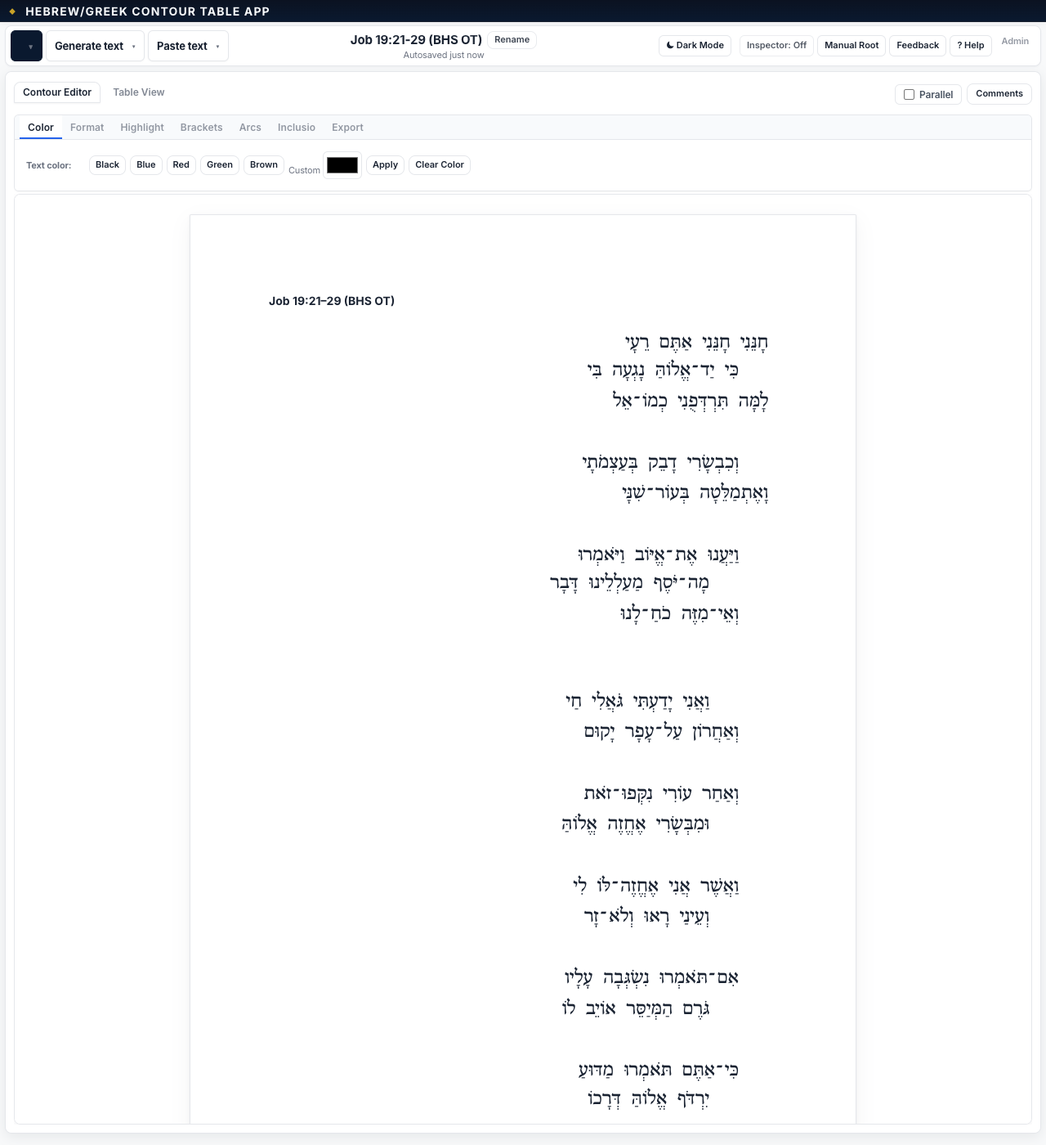
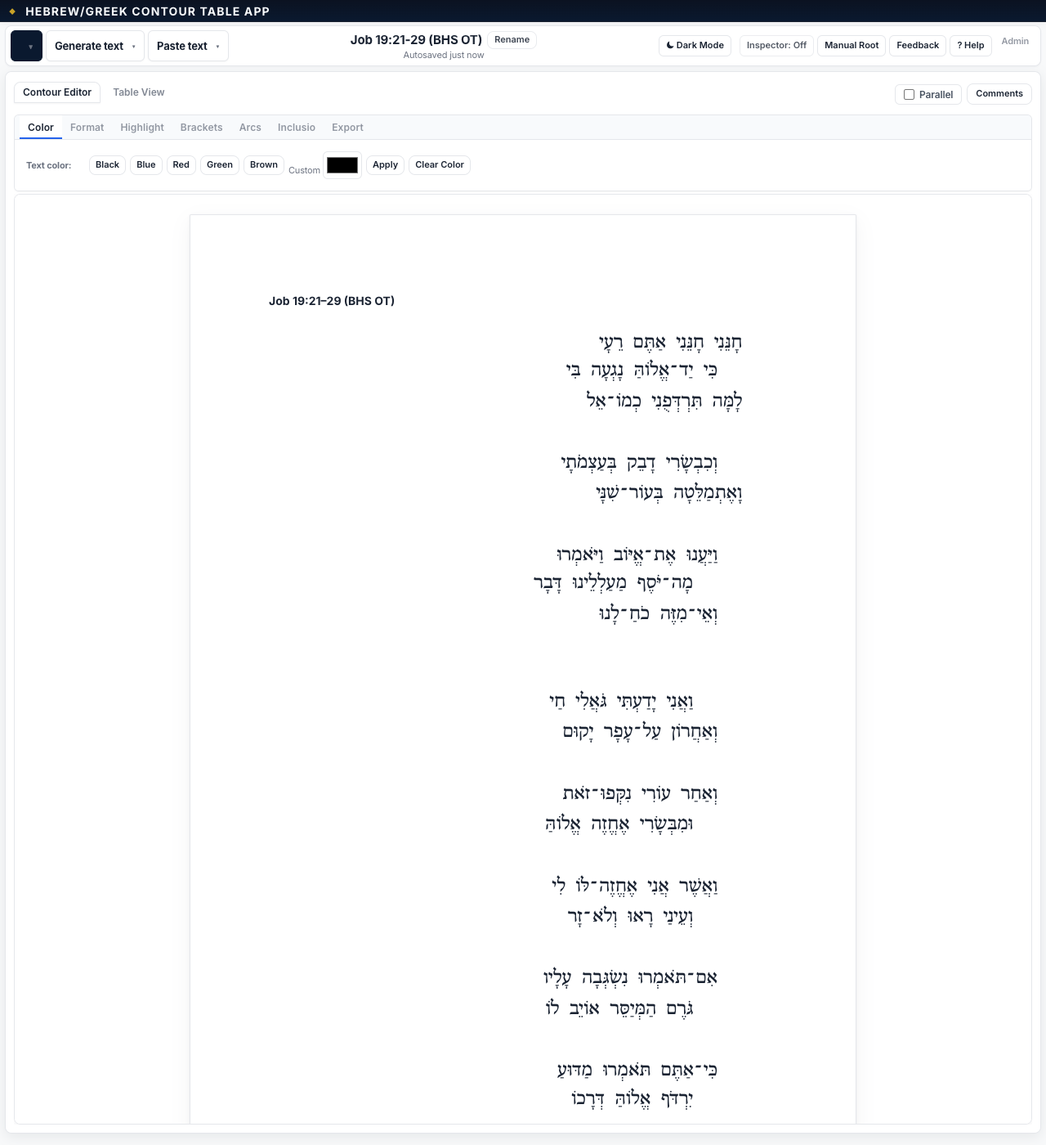
Calibrate contour presentation against Word document geometry.
Fix passage title bidi with an isolated title bar, shift the Hebrew anchor left, and reduce display indent steps to 30px without changing stored levels.

diff --git a/js/app/core.js b/js/app/core.js
@@ -22,7 +22,7 @@ function locFromWordElWithPane(el){if(!el)return null;const loc={v:+el.dataset.v
 function cloneLocWithPane(l){if(!l)return null;const o={v:+l.v,c:+l.c,w:+l.w};if(l.pane!=null)o.pane=+l.pane;return o;}
 function verseRefKey(ref,fallbackIdx){const s=String(ref||'').trim();let m=s.match(/(\d+)\s*:\s*(\d+)/);if(m)return+m[1]*1000+(+m[2]);m=s.match(/(\d+)\s*$/);if(m)return+m[1];return fallbackIdx!=null?fallbackIdx:0;}function defaultVersePairs(){const left=stateBundle.panes[0].verses||[];const right=stateBundle.panes[1].verses||[];const n=Math.max(left.length,right.length,0);const pairs=[];for(let i=0;i<n;i++)pairs.push({leftVi:i<left.length?i:null,rightVi:i<right.length?i:null});return pairs;}function sanitizeVersePairs(pairs){const leftN=(stateBundle.panes[0].verses||[]).length;const rightN=(stateBundle.panes[1].verses||[]).length;if(!Array.isArray(pairs))return defaultVersePairs();return pairs.map(p=>({leftVi:p.leftVi!=null&&p.leftVi>=0&&p.leftVi<leftN?p.leftVi:null,rightVi:p.rightVi!=null&&p.rightVi>=0&&p.rightVi<rightN?p.rightVi:null}));}function materializeVersePairs(){if(!stateBundle.verseAlignPairs)stateBundle.verseAlignPairs=defaultVersePairs();else stateBundle.verseAlignPairs=sanitizeVersePairs(stateBundle.verseAlignPairs);return stateBundle.verseAlignPairs;}function computeVersePairs(){if(!stateBundle.verseAlignPairs)return defaultVersePairs();return sanitizeVersePairs(stateBundle.verseAlignPairs);}function autoAlignVersePairsByRef(){markUndo();ensureStateBundle();const left=stateBundle.panes[0].verses||[];const right=stateBundle.panes[1].verses||[];let li=0,ri=0;const pairs=[];while(li<left.length||ri<right.length){const lk=li<left.length?verseRefKey(left[li].ref,li):Infinity;const rk=ri<right.length?verseRefKey(right[ri].ref,ri):Infinity;if(li>=left.length){pairs.push({leftVi:null,rightVi:ri++});continue;}if(ri>=right.length){pairs.push({leftVi:li++,rightVi:null});continue;}if(lk===rk){pairs.push({leftVi:li++,rightVi:ri++});}else if(lk<rk){pairs.push({leftVi:li++,rightVi:null});}else{pairs.push({leftVi:null,rightVi:ri++});}}stateBundle.verseAlignPairs=pairs;versePairPick=null;if(autosaveReady)autoSaveProject();}function resetVersePairsToIndex(){markUndo();stateBundle.verseAlignPairs=null;versePairPick=null;if(autosaveReady)autoSaveProject();}function findVersePairRow(pane,vi){const pairs=materializeVersePairs();const key=pane===0?'leftVi':'rightVi';for(let i=0;i<pairs.length;i++)if(pairs[i][key]===vi)return i;return-1;}function pairVersesOnRow(paneA,viA,paneB,viB){const pairs=materializeVersePairs();const rowA=findVersePairRow(paneA,viA);const rowB=findVersePairRow(paneB,viB);if(rowA<0||rowB<0)return'missing';if(rowA===rowB)return'same';markUndo();const kA=paneA===0?'leftVi':'rightVi';const kB=paneB===0?'leftVi':'rightVi';pairs[rowA][kA]=viA;pairs[rowA][kB]=viB;if(pairs[rowB][kA]===viA)pairs[rowB][kA]=null;if(pairs[rowB][kB]===viB)pairs[rowB][kB]=null;if(autosaveReady)autoSaveProject();return'paired';}function skipVerseToNextRow(row,pane){markUndo();const pairs=materializeVersePairs();if(row<0||row>=pairs.length)return;const key=pane===0?'leftVi':'rightVi';const vi=pairs[row][key];if(vi==null)return;pairs[row][key]=null;pairs.splice(row+1,0,{leftVi:pane===0?vi:null,rightVi:pane===1?vi:null});if(autosaveReady)autoSaveProject();}function clearVerseAlignState(){stateBundle.verseAlignPairs=null;versePairPick=null;}function remapPaneLocAfterVerseRemoval(l,removedVi){if(!l||l.v==null)return null;if(l.v===removedVi)return null;if(l.v>removedVi)return{v:l.v-1,c:l.c,w:l.w};return{v:l.v,c:l.c,w:l.w};}function remapPaneLocAfterClauseRemoval(l,vi,removedCi){if(!l||l.v==null)return null;if(l.v!==vi)return{v:l.v,c:l.c,w:l.w};if(l.c===removedCi)return null;if(l.c>removedCi)return{v:vi,c:l.c-1,w:l.w};return{v:vi,c:l.c,w:l.w};}function remapPaneStateLocs(st,remapFn){if(Array.isArray(st.comments))st.comments=st.comments.map(cm=>{const start=remapFn(cm.start),end=remapFn(cm.end);if(!start||!end)return null;return Object.assign({},cm,{start,end});}).filter(Boolean);if(Array.isArray(st.arcs))st.arcs=st.arcs.map(arc=>{const start=remapFn(arc.start),end=remapFn(arc.end);if(!start||!end)return null;return Object.assign({},arc,{start,end});}).filter(Boolean);if(Array.isArray(st.inclusios))st.inclusios=st.inclusios.map(inc=>{const start=remapFn(inc.start),end=remapFn(inc.end);if(!start||!end)return null;return Object.assign({},inc,{start,end});}).filter(Boolean);if(st.selected){const sel=remapFn(st.selected);st.selected=sel||null;}if(st.activeCommentId&&(!st.comments||!st.comments.some(c=>c.id===st.activeCommentId)))st.activeCommentId=null;if(st.activeArcId&&(!st.arcs||!st.arcs.some(a=>a.id===st.activeArcId)))st.activeArcId=null;}function adjustVersePairsAfterVerseRemoval(pane,removedVi){const key=pane===0?'leftVi':'rightVi';const pairs=materializeVersePairs();pairs.forEach(p=>{const vi=p[key];if(vi===removedVi)p[key]=null;else if(vi!=null&&vi>removedVi)p[key]=vi-1;});stateBundle.verseAlignPairs=pairs;}function pruneCrossArcsForPane(pane){ensureCrossArcs();stateBundle.crossArcs=stateBundle.crossArcs.filter(arc=>{const sp=arc.start.pane!=null?+arc.start.pane:0;const ep=arc.end.pane!=null?+arc.end.pane:1;if(sp===pane&&!locOKInPane(arc.start,pane))return false;if(ep===pane&&!locOKInPane(arc.end,pane))return false;return true;});}function removeVerseFromPane(pane,vi,skipConfirm){ensureStateBundle();const st=stateBundle.panes[pane];if(!st||!st.verses[vi])return;const ref=st.verses[vi].ref||'this verse';if(!skipConfirm&&!confirm('Remove '+ref+' from '+paneLabel(pane)+'? Annotations on this verse will be removed.'))return;markUndo();const remap=l=>remapPaneLocAfterVerseRemoval(l,vi);remapPaneStateLocs(st,remap);st.verses.splice(vi,1);if(Array.isArray(stateBundle.generatedRefsByPane[pane]))stateBundle.generatedRefsByPane[pane].splice(vi,1);adjustVersePairsAfterVerseRemoval(pane,vi);pruneCrossArcsForPane(pane);if(versePairPick&&versePairPick.pane===pane&&versePairPick.vi===vi)versePairPick=null;else if(versePairPick&&versePairPick.pane===pane&&versePairPick.vi>vi)versePairPick.vi--;if(stateBundle.activePane===pane){state=st;if(typeof applyInclusioBrackets==='function')applyInclusioBrackets(false);}if(autosaveReady)autoSaveProject();updateSaveStatus('Removed '+ref+' from '+paneLabel(pane)+'. Reload the passage to restore it.');render();}function removeClauseFromPane(pane,v,ci){ensureStateBundle();const st=stateBundle.panes[pane];if(!st||!st.verses[v]||!st.verses[v].clauses[ci])return;const verse=st.verses[v];if(verse.clauses.length===1){removeVerseFromPane(pane,v,true);return;}markUndo();const remap=l=>remapPaneLocAfterClauseRemoval(l,v,ci);remapPaneStateLocs(st,remap);verse.clauses.splice(ci,1);pruneCrossArcsForPane(pane);if(stateBundle.activePane===pane){state=st;if(typeof applyInclusioBrackets==='function')applyInclusioBrackets(false);}if(autosaveReady)autoSaveProject();updateSaveStatus('Removed section from '+verse.ref+'.');render();}function removeClauseFromActivePane(){if(!state.selected||!locOK(state.selected))return;removeClauseFromPane(stateBundle.activePane,state.selected.v,state.selected.c);}function countLeadingRightOffset(){const pairs=materializeVersePairs();let n=0;for(let i=0;i<pairs.length;i++){if(pairs[i].leftVi!=null&&pairs[i].rightVi==null)n++;else if(pairs[i].rightVi!=null)break;}return n;}function shiftRightColumnDown(){markUndo();const pairs=materializeVersePairs();if(!pairs.length)return;const rights=pairs.map(p=>p.rightVi);for(let i=0;i<pairs.length;i++)pairs[i].rightVi=null;for(let i=0;i<rights.length;i++){if(rights[i]==null)continue;const target=i+1;while(target>=pairs.length)pairs.push({leftVi:null,rightVi:null});pairs[target].rightVi=rights[i];}if(autosaveReady)autoSaveProject();}function shiftRightColumnUp(){markUndo();if(countLeadingRightOffset()<=0)return;const pairs=materializeVersePairs();const rights=[];for(const p of pairs)if(p.rightVi!=null)rights.push(p.rightVi);for(const p of pairs)p.rightVi=null;for(let i=0;i<rights.length;i++){if(i>=pairs.length)pairs.push({leftVi:null,rightVi:null});pairs[i].rightVi=rights[i];}if(autosaveReady)autoSaveProject();}function nudgeVerseUp(row,pane){markUndo();if(row<=0)return;const pairs=materializeVersePairs();const key=pane===0?'leftVi':'rightVi';const vi=pairs[row][key];if(vi==null)return;const prev=pairs[row-1][key];pairs[row-1][key]=vi;pairs[row][key]=prev;if(autosaveReady)autoSaveProject();}function updateParallelAlignStatus(){const el=document.getElementById('parallelAlignStatus');if(!el)return;if(!stateBundle.parallelEnabled){el.textContent='';return;}if(!isParallelActive()){el.textContent='Parallel passages on — widen the window for side-by-side view.';return;}if(versePairPick){const st=stateBundle.panes[versePairPick.pane];const ref=(st.verses[versePairPick.vi]&&st.verses[versePairPick.vi].ref)||'verse';el.innerHTML='Selected <strong>'+esc(ref)+'</strong> — click the matching verse in the other column. <button type="button" class="linkish-btn" id="cancelVersePickBtn">Cancel</button>';const cancel=document.getElementById('cancelVersePickBtn');if(cancel)cancel.onclick=(e)=>{e.preventDefault();versePairPick=null;render();};return;}const off=countLeadingRightOffset();let msg=off?('Right pane starts '+off+' row'+(off===1?'':'s')+' lower than the left.'):'Right and left panes start on the same row.';msg+=' Toolbar <strong>↑</strong> / <strong>↓</strong> shift the whole right pane up or down (Alt+↑ / Alt+↓). Small <strong>↑</strong> / <strong>↓</strong> beside a verse on the right move that verse only. Click two verse labels to pair them on one row.';if(off>0)msg+=' <button type="button" class="linkish-btn" id="resetVerseAlignLink">Reset</button>';if(state.selected&&locOK(state.selected)&&stateBundle.activePane!=null)msg+=' <button type="button" class="linkish-btn" id="removeClauseSectionBtn">Remove this section</button>';el.innerHTML=msg;const reset=document.getElementById('resetVerseAlignLink');if(reset)reset.onclick=(e)=>{e.preventDefault();resetVersePairsToIndex();render();};const trimBtn=document.getElementById('removeClauseSectionBtn');if(trimBtn)trimBtn.onclick=(e)=>{e.preventDefault();removeClauseFromActivePane();};}
 function paneLanguage(pane){const st=stateBundle.panes[pane];return st&&st.language?st.language:'hebrew';}
-function renderVerseBlock(pane,vi,paneState,layout,activeKey,row){if(vi==null||!paneState.verses[vi])return '<div class="parallel-empty-verse muted small">—</div>';const v=paneState.verses[vi];const picked=versePairPick&&versePairPick.pane===pane&&versePairPick.vi===vi;const ri=row!=null?row:0;const clauseCls=typeof clauseLayoutClassNames==='function'?clauseLayoutClassNames:(c,sel)=>'clause'+(sel?' selected':'');const verseCls=typeof verseBlockClassNames==='function'?verseBlockClassNames:()=>'verse-block';const refBar=typeof parallelVerseRefBarHtml==='function'?parallelVerseRefBarHtml(v,vi,pane,ri,picked):'';let html=`<div class="${verseCls(v)}" data-pane="${pane}" data-v="${vi}">`;html+=refBar;v.clauses.forEach((c,ci)=>{const sel=paneState.selected&&paneState.selected.v===vi&&paneState.selected.c===ci;const marginStyle=layout.indentSide==='left'?`margin-left:${c.indent*36}px`:`margin-right:${c.indent*36}px`;html+=`<div class="${clauseCls(c,sel)}" data-pane="${pane}" data-v="${vi}" data-c="${ci}" dir="${layout.dir}" style="${marginStyle};direction:${layout.dir};text-align:${layout.textAlign};font-family:${layout.fontFamily}">`;html+=typeof renderWordTokensInClause==='function'?renderWordTokensInClause(c.words,{vi,ci,pane,paneState,activeKey,selLoc:paneState.selected,idsForLoc:l=>commentIdsForLocInPane(l,pane),markersForLoc:l=>commentMarkersForLocInPane(l,pane)}):'';html+='</div>';});html+='</div>';return html;}
+function renderVerseBlock(pane,vi,paneState,layout,activeKey,row){if(vi==null||!paneState.verses[vi])return '<div class="parallel-empty-verse muted small">—</div>';const v=paneState.verses[vi];const picked=versePairPick&&versePairPick.pane===pane&&versePairPick.vi===vi;const ri=row!=null?row:0;const clauseCls=typeof clauseLayoutClassNames==='function'?clauseLayoutClassNames:(c,sel)=>'clause'+(sel?' selected':'');const verseCls=typeof verseBlockClassNames==='function'?verseBlockClassNames:()=>'verse-block';const refBar=typeof parallelVerseRefBarHtml==='function'?parallelVerseRefBarHtml(v,vi,pane,ri,picked):'';const indentPx=typeof contourDisplayIndentPx==='function'?contourDisplayIndentPx():36;let html=`<div class="${verseCls(v)}" data-pane="${pane}" data-v="${vi}">`;html+=refBar;v.clauses.forEach((c,ci)=>{const sel=paneState.selected&&paneState.selected.v===vi&&paneState.selected.c===ci;const marginStyle=layout.indentSide==='left'?`margin-left:${c.indent*indentPx}px`:`margin-right:${c.indent*indentPx}px`;html+=`<div class="${clauseCls(c,sel)}" data-pane="${pane}" data-v="${vi}" data-c="${ci}" dir="${layout.dir}" style="${marginStyle};direction:${layout.dir};text-align:${layout.textAlign};font-family:${layout.fontFamily}">`;html+=typeof renderWordTokensInClause==='function'?renderWordTokensInClause(c.words,{vi,ci,pane,paneState,activeKey,selLoc:paneState.selected,idsForLoc:l=>commentIdsForLocInPane(l,pane),markersForLoc:l=>commentMarkersForLocInPane(l,pane)}):'';html+='</div>';});html+='</div>';return html;}
 function locRankInPane(l,pane){const st=stateBundle.panes[pane];if(!st||!locOKInPane(l,pane))return-1;let n=0;for(let vi=0;vi<st.verses.length;vi++){for(let ci=0;ci<st.verses[vi].clauses.length;ci++){if(vi===l.v&&ci===l.c)return n+l.w;n+=st.verses[vi].clauses[ci].words.length;}}return-1;}
 function locInRangeInPane(l,start,end,pane){if(!locOKInPane(l,pane)||!locOKInPane(start,pane)||!locOKInPane(end,pane))return false;const r=locRankInPane(l,pane),a=locRankInPane(start,pane),b=locRankInPane(end,pane);return r>=Math.min(a,b)&&r<=Math.max(a,b);}
 function commentIdsForLocInPane(l,pane){const st=stateBundle.panes[pane];if(!st||!Array.isArray(st.comments))return[];return st.comments.filter(cm=>locOKInPane(cm.start,pane)&&locOKInPane(cm.end,pane)&&locInRangeInPane(l,cm.start,cm.end,pane)).map(cm=>cm.id);}

diff --git a/js/app/layout.js b/js/app/layout.js
@@ -26,12 +26,12 @@ function applyEditorLayoutFix(){
   else bind();
 })();
 
-function render(){applyLanguageLayout();syncStateBundle();if(typeof syncAllPaneInclusioWordMarkers==='function')syncAllPaneInclusioWordMarkers();renderParallelEditors();if(isParallelActive()){renderDualTables();}else{renderEditor();renderTable();}renderLegendEditor();syncLegendBelowEditor();if(typeof renderInclusioUI==='function')renderInclusioUI();else if(typeof renderInclusioManager==='function')renderInclusioManager();if(!isWorkspaceTableView())renderCommentsPanel();setTimeout(updateCommentPopover,0);if(isParallelActive())renderArcManagerParallel();else if(typeof renderArcManager==='function')renderArcManager();if(stateBundle.parallelEnabled)updateParallelAlignStatus();if(typeof updateVisualBreakToolbar==='function')updateVisualBreakToolbar();if(autosaveReady)autoSaveProject();scheduleEditorLayoutFix();}
+function render(){applyLanguageLayout();syncStateBundle();if(typeof syncAllPaneInclusioWordMarkers==='function')syncAllPaneInclusioWordMarkers();renderParallelEditors();if(isParallelActive()){renderDualTables();}else{renderEditor();renderTable();}renderLegendEditor();syncLegendBelowEditor();if(typeof renderInclusioUI==='function')renderInclusioUI();else if(typeof renderInclusioManager==='function')renderInclusioManager();if(!isWorkspaceTableView())renderCommentsPanel();setTimeout(updateCommentPopover,0);if(isParallelActive())renderArcManagerParallel();else if(typeof renderArcManager==='function')renderArcManager();if(stateBundle.parallelEnabled)updateParallelAlignStatus();if(typeof updateVisualBreakToolbar==='function')updateVisualBreakToolbar();if(!isParallelActive()&&typeof finalizeDocumentPagePresentation==='function')finalizeDocumentPagePresentation();if(autosaveReady)autoSaveProject();scheduleEditorLayoutFix();}
 function wordFormatClasses(w,l){let f=w.format||{};let suppressCommentStart=l&&isCommentBoundary(l,'start')&&!w.bracketSource;let suppressCommentEnd=l&&isCommentBoundary(l,'end')&&!w.bracketSource;let incCls=typeof inclusioWordHighlightClass==='function'&&l?inclusioWordHighlightClass(l,w):'';let inclusioQuiet=w.bracketSource==='inclusio'?'inclusio-bracket':'';return `${f.bold?'fmt-bold':''} ${f.italic?'fmt-italic':''} ${f.underline?'fmt-underline':''} ${f.doubleUnderline?'fmt-double-underline':''} ${f.highlight?'fmt-highlight':''} ${(w.bracketStart&&!suppressCommentStart)?'bracket-start':''} ${(w.bracketEnd&&!suppressCommentEnd)?'bracket-end':''} ${inclusioQuiet} ${incCls}`.replace(/\s+/g,' ').trim();}
 function wordInlineStyle(w){let styles=[];if(w.color)styles.push('color:'+esc(w.color));if(w.format&&w.format.highlight)styles.push('background-color:'+esc(w.format.highlight));let bc=w.bracketColor||w.inclusioColor;if(bc)styles.push('--bracket-color:'+esc(bc));return styles.join(';');}
 function renderWordTokensInClause(words,opt){const vi=opt.vi,ci=opt.ci,pane=opt.pane,paneState=opt.paneState||state,activeKey=opt.activeKey||'',forExport=!!(opt&&opt.forExport);const selLoc=opt.selLoc||(paneState&&paneState.selected);const idsFn=opt.idsForLoc||(pane!=null?(l=>commentIdsForLocInPane(l,pane)):(l=>commentIdsForLoc(l)));const markersFn=opt.markersForLoc||(pane!=null?(l=>commentMarkersForLocInPane(l,pane)):(l=>commentMarkersForLoc(l)));let html='';words.forEach((w,wi)=>{if(isMaqafConnector(w)){const hidden=forExport?'':' aria-hidden="true"';html+=`<span class="maqaf-connector"${hidden}>${esc(w.text||MAQAF_CHAR)}</span>`;return;}ensureSelectableWordFields(w);const l=pane!=null?{v:vi,c:ci,w:wi,pane}:{v:vi,c:ci,w:wi};const ids=idsFn(l);const commentClass=ids.length?'comment-anchored':'';const activeCommentClass=(paneState.activeCommentId&&ids.includes(paneState.activeCommentId))?'comment-active':'';const wsel=selLoc&&selLoc.v===vi&&selLoc.c===ci&&selLoc.w===wi;const same=activeKey&&normalizeHebrewWord(w.text)===activeKey&&!wsel;const paneAttr=pane!=null?` data-pane="${pane}"`:'';const specials=w.specials||[];html+=`<span class="word ${wsel?'selected':''} ${same?'sameword':''} ${commentClass} ${activeCommentClass} ${w.deleted?'deleted':''} ${specials.includes('predicate')?'pred':''} ${specials.includes('subject')?'subj':''} ${w.color?'has-text-color':''} ${wordFormatClasses(w,l)}"${paneAttr} data-v="${vi}" data-c="${ci}" data-w="${wi}" style="${wordInlineStyle(w)}">${esc(w.text)}</span>${markersFn(l)}`;if(needsSpaceAfterWord(words,wi))html+=' ';});return html;}
 function renderEditor(){const ed=document.getElementById('editor');const wrap=document.getElementById('editorWrap');if(wrap)wrap.classList.add('contour-document-surface');const layout=getLanguageLayout();const scriptStyle=`direction:${layout.dir};text-align:${layout.textAlign};font-family:${layout.fontFamily}`;ensureComments();function restoreArcSvgLayer(){if(typeof ensureArcSvgLayer==='function')ensureArcSvgLayer();}if(!state.verses.length){ed.classList.remove('contour-document-page');if(typeof syncContourPassageTitle==='function')syncContourPassageTitle();ed.innerHTML='<div class="editor-empty-state" dir="ltr"><p class="editor-empty-title">No text loaded yet</p><p class="muted">Use <strong>Generate text</strong> or <strong>Paste text</strong> in the menu bar above.</p></div>';restoreArcSvgLayer();hideCommentPopover();return;}ed.classList.add('contour-document-page');if(typeof applyDocumentPageEditorTypography==='function')applyDocumentPageEditorTypography(ed,layout);ed.innerHTML=buildContourEditorHtmlFromState();if(typeof syncContourPassageTitle==='function')syncContourPassageTitle();restoreArcSvgLayer();document.querySelectorAll('.word').forEach(el=>el.onclick=(ev)=>{let clicked={v:+el.dataset.v,c:+el.dataset.c,w:+el.dataset.w};if(ev.shiftKey&&locOK(state.selected)){applyBracketRange(state.selected,clicked);return;}state.selected=clicked;let ids=commentIdsForLoc(clicked);if(ids.length)state.activeCommentId=ids[0];render();});document.querySelectorAll('.comment-marker').forEach(el=>el.onclick=(ev)=>{ev.stopPropagation();activateComment(el.dataset.commentId);});}
-function buildContourEditorHtmlFromState(forExport){const layout=getLanguageLayout();const scriptStyle=`direction:${layout.dir};text-align:${layout.textAlign};font-family:${layout.fontFamily}`;ensureComments();if(!state.verses.length)return '';let html='';let activeKey=selectedWordKey();const exportMode=!!forExport;const clauseCls=typeof clauseLayoutClassNames==='function'?clauseLayoutClassNames:(c,sel)=>'clause'+(sel?' selected':'');const verseCls=typeof verseBlockClassNames==='function'?verseBlockClassNames:()=>'verse-block';const refHtml=typeof contourVerseRefHtml==='function'?contourVerseRefHtml:(v,vi)=>`<div class="muted verse-ref" dir="ltr">${esc(v.ref)}</div>`;state.verses.forEach((v,vi)=>{html+=`<div class="${verseCls(v)}" data-v="${vi}">`;html+=refHtml(v,vi);v.clauses.forEach((c,ci)=>{let sel=state.selected&&state.selected.v==vi&&state.selected.c==ci;let marginStyle=layout.indentSide==='left'?`margin-left:${c.indent*36}px`:`margin-right:${c.indent*36}px`;html+=`<div class="${clauseCls(c,sel)}" data-v="${vi}" data-c="${ci}" dir="${layout.dir}" style="${marginStyle};${scriptStyle}">`;html+=renderWordTokensInClause(c.words,{vi,ci,paneState:state,activeKey,selLoc:state.selected,forExport:exportMode});html+='</div>';});html+='</div>';});return html;}
+function buildContourEditorHtmlFromState(forExport){const layout=getLanguageLayout();const scriptStyle=`direction:${layout.dir};text-align:${layout.textAlign};font-family:${layout.fontFamily}`;ensureComments();if(!state.verses.length)return '';let html='';let activeKey=selectedWordKey();const exportMode=!!forExport;const clauseCls=typeof clauseLayoutClassNames==='function'?clauseLayoutClassNames:(c,sel)=>'clause'+(sel?' selected':'');const verseCls=typeof verseBlockClassNames==='function'?verseBlockClassNames:()=>'verse-block';const refHtml=typeof contourVerseRefHtml==='function'?contourVerseRefHtml:(v,vi)=>`<div class="muted verse-ref" dir="ltr">${esc(v.ref)}</div>`;const indentPx=typeof contourDisplayIndentPx==='function'?contourDisplayIndentPx():36;state.verses.forEach((v,vi)=>{html+=`<div class="${verseCls(v)}" data-v="${vi}">`;html+=refHtml(v,vi);v.clauses.forEach((c,ci)=>{let sel=state.selected&&state.selected.v==vi&&state.selected.c==ci;let marginStyle=layout.indentSide==='left'?`margin-left:${c.indent*indentPx}px`:`margin-right:${c.indent*indentPx}px`;html+=`<div class="${clauseCls(c,sel)}" data-v="${vi}" data-c="${ci}" dir="${layout.dir}" style="${marginStyle};${scriptStyle}">`;html+=renderWordTokensInClause(c.words,{vi,ci,paneState:state,activeKey,selLoc:state.selected,forExport:exportMode});html+='</div>';});html+='</div>';});return html;}
 function clauseRows(){let rows=[];state.verses.forEach((v,vi)=>v.clauses.forEach((c,ci)=>{let words=joinWordsForDisplay(c.words.filter(w=>!w.deleted));let notes=c.words.filter(w=>w.note&&!isMaqafConnector(w)).map(w=>'['+w.text+'] — '+w.note).join('; ');let trans=c.words.filter(w=>w.translation&&!isMaqafConnector(w)).map(w=>'['+w.text+'] — '+w.translation).join('; ');rows.push({vi,ci,ref:v.ref,clause:ci+1,hebrew:words,indent:c.indent,notes,translation:trans,ann:c.ann||{}});}));return rows;}
 function renderTable(){let rows=clauseRows();let textHeader=(state.language==='greek'?'Greek Text':'Hebrew Text');let textClass=(state.language==='greek'?'greek':'heb');let ltr=' class="ann-ltr" dir="ltr"';let html='<table id="annTable" dir="ltr"><thead><tr><th class="'+textClass+'">'+textHeader+'</th><th'+ltr+'>Translation</th><th'+ltr+'>Gloss</th><th'+ltr+'>Parsing</th><th'+ltr+'>Notes</th>';state.columns.forEach(col=>html+=`<th class="ann-ltr" dir="ltr">${esc(col)}</th>`);html+='</tr></thead><tbody>';rows.forEach(r=>{html+=`<tr data-v="${r.vi}" data-c="${r.ci}"><td class="${textClass}">${esc(r.hebrew)}</td><td class="ann-ltr" dir="ltr" contenteditable data-col="Translation">${esc(r.ann['Translation']||'')}</td><td class="ann-ltr" dir="ltr">${esc(r.translation)}</td><td class="ann-ltr" dir="ltr" contenteditable data-col="Parsing">${esc(r.ann['Parsing']||'')}</td><td class="ann-ltr" dir="ltr">${esc(r.notes)}</td>`;state.columns.forEach(col=>html+=`<td class="ann-ltr" dir="ltr" contenteditable data-col="${esc(col)}">${esc(r.ann[col]||'')}</td>`);html+='</tr>';});html+='</tbody></table>';const tableWrap=document.getElementById('tableWrap');tableWrap.innerHTML=html;tableWrap.dir='ltr';tableWrap.style.direction='ltr';tableWrap.style.textAlign='left';document.querySelectorAll('#annTable td[contenteditable]').forEach(td=>{applyLtrAnnotationInput(td);td.oninput=()=>{if(!td._undoSnap){markUndo();td._undoSnap=1;}let tr=td.closest('tr'),c=state.verses[+tr.dataset.v].clauses[+tr.dataset.c];c.ann=c.ann||{};c.ann[td.dataset.col]=td.innerText;if(autosaveReady)autoSaveProject();};});}
 function insertBreak(){markUndo();let l=state.selected;if(!locOK(l)||l.w===0)return;let v=l.v,c=l.c,w=l.w;let cl=state.verses[v].clauses[c];let newc={indent:cl.indent,words:cl.words.slice(w),specials:[],ann:{}};cl.words=cl.words.slice(0,w);const isLastClause=c===state.verses[v].clauses.length-1;const hasNextVerse=v+1<state.verses.length;if(isLastClause&&hasNextVerse){state.verses[v+1].clauses.unshift(newc);applyStructureRemap(mapSplitClauseCrossVerse(v,c,w));state.selected={v:v+1,c:0,w:0};}else{state.verses[v].clauses.splice(c+1,0,newc);applyStructureRemap(mapSplitClause(v,c,w));state.selected={v,c:c+1,w:0};}render();}

diff --git a/js/app/layout-breaks.js b/js/app/layout-breaks.js
@@ -50,6 +50,11 @@ function spacingAfterFromBlankLineCount(blankCount) {
 window.spacingAfterFromBlankLineCount = spacingAfterFromBlankLineCount;
 
 const WORD_CONTOUR_INDENT_PX = 36;
+/** Editor/export pixel width per stored indent level (presentation calibration). */
+const CONTOUR_DISPLAY_INDENT_PX = 30;
+window.contourDisplayIndentPx = function contourDisplayIndentPx() {
+  return CONTOUR_DISPLAY_INDENT_PX;
+};
 const WORD_IMPORT_INDENT_STEP_PX = 48;
 const WORD_INDENT_IMPORT_PREF_KEY = 'hc-import-word-indent';
 const WORD_INDENT_MIN_PX = 18;
@@ -480,18 +485,45 @@ window.passageRefForDisplay = passageRefForDisplay;
 
 function syncContourPassageTitle() {
   const el = document.getElementById('contourPassageTitle');
+  const sheet = document.querySelector('.contour-document-sheet');
   if (!el) return;
   const ref = passageRefForDisplay();
+  const singleVerse = !!(state && state.verses && state.verses.length === 1);
   if (!state || !state.verses || !state.verses.length || !ref) {
     el.hidden = true;
-    el.textContent = '';
+    el.replaceChildren();
+    if (sheet) {
+      sheet.classList.remove('contour-document-sheet--titled', 'contour-document-sheet--single-verse');
+    }
     return;
   }
-  el.textContent = formatPassageTitleDisplay(ref);
+  const text = formatPassageTitleDisplay(ref);
+  el.replaceChildren();
+  const bdi = document.createElement('bdi');
+  bdi.className = 'contour-passage-title-text';
+  bdi.dir = 'ltr';
+  bdi.textContent = text;
+  el.appendChild(bdi);
   el.hidden = false;
   if (typeof applyLtrAnnotationInput === 'function') applyLtrAnnotationInput(el);
+  if (sheet) {
+    sheet.classList.add('contour-document-sheet--titled');
+    sheet.classList.toggle('contour-document-sheet--single-verse', singleVerse);
+  }
 }
 window.syncContourPassageTitle = syncContourPassageTitle;
+
+function finalizeDocumentPagePresentation() {
+  const ed = document.getElementById('editor');
+  if (!ed || !ed.classList.contains('contour-document-page') || !state.verses.length) return;
+  const layout = typeof getLanguageLayout === 'function' ? getLanguageLayout() : null;
+  if (typeof applyDocumentPageEditorTypography === 'function') {
+    applyDocumentPageEditorTypography(ed, layout);
+  }
+  if (typeof syncContourPassageTitle === 'function') syncContourPassageTitle();
+  ed.querySelectorAll('.contour-passage-title, .verse-ref').forEach((node) => node.remove());
+}
+window.finalizeDocumentPagePresentation = finalizeDocumentPagePresentation;
 
 function contourPassageTitleHtml(ref) {
   if (!ref || !String(ref).trim()) return '';

diff --git a/styles/contour-document-presentation.css b/styles/contour-document-presentation.css
@@ -4,6 +4,7 @@
   --contour-letter-width: 816px;   /* 8.5in @ 96dpi */
   --contour-letter-margin: 96px;   /* 1in margins */
   --contour-letter-min-height: 1056px; /* 11in @ 96dpi */
+  --contour-hebrew-anchor-inset: 32px; /* nudge RTL anchor left vs Word */
 }
 
 #editorWrap.contour-document-surface {
@@ -45,7 +46,18 @@
   margin: 0 0 24px 0 !important;
 }
 
+#contourPassageTitle .contour-passage-title-text {
+  unicode-bidi: isolate;
+  direction: ltr;
+}
+
 #contourPassageTitle.contour-passage-title[hidden] {
+  display: none !important;
+}
+
+/* Single-verse paste: passage title bar replaces in-editor verse ref (prevents RTL scramble) */
+.contour-document-sheet--titled.contour-document-sheet--single-verse #editor .verse-ref,
+.contour-document-sheet--titled.contour-document-sheet--single-verse #editor .contour-passage-title {
   display: none !important;
 }
 
@@ -70,6 +82,8 @@
   direction: rtl;
   text-align: right;
   width: 100%;
+  padding-right: var(--contour-hebrew-anchor-inset);
+  box-sizing: border-box;
 }
 
 .contour-passage-title,

diff --git a/index.html b/index.html
@@ -19,7 +19,7 @@
 <link rel="stylesheet" href="styles/project-header.css?v=2">
 <link rel="stylesheet" href="styles/layout-breaks.css?v=2">
 <link rel="stylesheet" href="styles/project-view-prefs.css?v=2">
-<link rel="stylesheet" href="styles/contour-document-presentation.css?v=2">
+<link rel="stylesheet" href="styles/contour-document-presentation.css?v=3">
 </head>
 <body>
 <div id="passwordGate" class="password-gate">

diff --git a/service-worker.js b/service-worker.js
@@ -1,4 +1,4 @@
-const CACHE_NAME = 'contour-app-pwa-v45';
+const CACHE_NAME = 'contour-app-pwa-v46';
 const APP_ASSETS = [
   './',
   './index.html',
